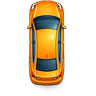
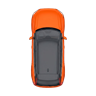
feat(vehicles): add mensajeria marker + non-rotating cargo box
- Add new mensajeria marker (kraft-box, top-down) for client and driver apps
  + web. Mensajería is no longer aliased to the moto marker since the box has
  its own visual identity and shouldn't pretend to be a vehicle.
- Update confort marker assets across all surfaces (client, driver, web,
  mockups) to higher-fidelity Gemini-generated SUV images that pair better
  with the brand-orange treatment.
- Skip iconRotate-by-bearing for mensajeria — the cargo box has no inherent
  "front" direction so heading-driven rotation looked arbitrary. Other
  vehicle markers continue to rotate by reported heading.

Implementation note: NON_ROTATING_MARKERS Set centralizes the slug list in
RideMapView (client + driver) and BookingMap (web), keeping the rule in one
place if more silhouette-less markers are added later.

diff --git a/apps/driver/src/components/RideMapView.tsx b/apps/driver/src/components/RideMapView.tsx
@@ -111,7 +111,12 @@ const vehicleMarkerImages: Record<string, any> = {
   // 1950s vintage car that visually identifies the standard auto service.
   auto: require('../../assets/vehicles/markers/auto_clasico.png'),
   confort: require('../../assets/vehicles/markers/confort.png'),
+  mensajeria: require('../../assets/vehicles/markers/mensajeria.png'),
 };
+
+// Cargo box marker has no inherent "front" direction — keep rotation 0
+// instead of spinning a square around its center as the bearing changes.
+const NON_ROTATING_MARKERS = new Set<string>(['mensajeria']);
 
 // Demo-aware map fallback: returns São Paulo when EXPO_PUBLIC_DEMO_MODE=true,
 // Havana otherwise. Same pattern as apps/client/src/components/RideMapView.tsx.
@@ -1026,7 +1031,7 @@ function RideMapViewInner(
                       // 0=N, 90=E, 180=S, 270=W. The marker images are drawn
                       // pointing up (north) so a direct deg rotation aligns
                       // the nose with the direction of travel.
-                      { rotate: `${typeof driverHeading === 'number' && Number.isFinite(driverHeading) ? driverHeading : 0}deg` },
+                      { rotate: `${(vehicleType && NON_ROTATING_MARKERS.has(vehicleType)) ? 0 : (typeof driverHeading === 'number' && Number.isFinite(driverHeading) ? driverHeading : 0)}deg` },
                     ],
                   }}
                 >
@@ -1121,6 +1126,7 @@ function RideMapViewInner(
                 'marker-moto': vehicleMarkerImages.moto,
                 'marker-auto': vehicleMarkerImages.auto,
                 'marker-confort': vehicleMarkerImages.confort,
+                'marker-mensajeria': vehicleMarkerImages.mensajeria,
               }}
             />
             <MapboxGL.ShapeSource id="peers" shape={peersGeoJSON}>
@@ -1129,7 +1135,8 @@ function RideMapViewInner(
                 style={{
                   iconImage: ['get', 'icon'],
                   iconSize: 0.45,
-                  iconRotate: ['get', 'heading'],
+                  // Cargo box marker (mensajería) stays at 0deg — no inherent front.
+                  iconRotate: ['case', ['==', ['get', 'icon'], 'marker-mensajeria'], 0, ['get', 'heading']],
                   iconAllowOverlap: true,
                   iconRotationAlignment: 'map',
                   iconPitchAlignment: 'map',

diff --git a/apps/web/src/app/book/BookingMap.tsx b/apps/web/src/app/book/BookingMap.tsx
@@ -100,7 +100,12 @@ const VEHICLE_IMAGES: Record<string, string> = {
   moto: '/images/vehicles/markers/moto@2x.png',
   auto: '/images/vehicles/markers/auto@2x.png',
   confort: '/images/vehicles/markers/confort@2x.png',
+  mensajeria: '/images/vehicles/markers/mensajeria@2x.png',
 };
+
+// Cargo box marker (mensajería) has no inherent "front" — keep it upright
+// instead of rotating with bearing.
+const NON_ROTATING_MARKERS = new Set<string>(['mensajeria']);
 
 function createVehicleMarkerEl(vehicleType: string, heading: number | null, etaSeconds?: number | null): HTMLDivElement {
   const el = document.createElement('div');
@@ -113,7 +118,7 @@ function createVehicleMarkerEl(vehicleType: string, heading: number | null, etaS
   });
 
   const imgSrc = VEHICLE_IMAGES[vehicleType] ?? VEHICLE_IMAGES.auto;
-  const rotation = heading ?? 0;
+  const rotation = NON_ROTATING_MARKERS.has(vehicleType) ? 0 : (heading ?? 0);
 
   // Vehicle icon
   const icon = document.createElement('div');
@@ -574,6 +579,7 @@ export default function BookingMap({
         ['vehicle-moto', '/images/vehicles/markers/moto@2x.png'],
         ['vehicle-auto', '/images/vehicles/markers/auto@2x.png'],
         ['vehicle-confort', '/images/vehicles/markers/confort@2x.png'],
+        ['vehicle-mensajeria', '/images/vehicles/markers/mensajeria@2x.png'],
       ];
       images.forEach(([name, url]) => {
         if (!map.hasImage(name)) {
@@ -594,7 +600,8 @@ export default function BookingMap({
         layout: {
           'icon-image': ['get', 'icon'],
           'icon-size': ['interpolate', ['linear'], ['zoom'], 10, 0.3, 14, 0.45, 18, 0.55],
-          'icon-rotate': ['get', 'heading'],
+          // Cargo box marker (mensajería) stays at 0deg — no inherent front.
+          'icon-rotate': ['case', ['==', ['get', 'icon'], 'vehicle-mensajeria'], 0, ['get', 'heading']],
           'icon-rotation-alignment': 'map',
           'icon-allow-overlap': true,
           'icon-ignore-placement': true,

diff --git a/apps/client/src/components/RideMapView.tsx b/apps/client/src/components/RideMapView.tsx
@@ -45,7 +45,13 @@ const vehicleMarkerImages: Record<string, any> = {
   'marker-moto': require('../../assets/vehicles/markers/moto.png'),
   'marker-auto': require('../../assets/vehicles/markers/auto_clasico.png'),
   'marker-confort': require('../../assets/vehicles/markers/confort.png'),
+  'marker-mensajeria': require('../../assets/vehicles/markers/mensajeria.png'),
 };
+
+// Service slugs whose marker has no inherent "front" direction — rotation
+// by bearing would feel arbitrary (e.g. mensajeria is rendered as a square
+// cargo box, not a vehicle silhouette).
+const NON_ROTATING_MARKERS = new Set<string>(['mensajeria']);
 
 interface GeoPoint {
   latitude: number;
@@ -800,7 +806,7 @@ function RideMapViewInner({
                   backgroundColor: 'transparent',
                   alignItems: 'center',
                   justifyContent: 'center',
-                  transform: [{ rotate: `${animatedDriver.heading ?? 0}deg` }],
+                  transform: [{ rotate: `${(vehicleType && NON_ROTATING_MARKERS.has(vehicleType)) ? 0 : (animatedDriver.heading ?? 0)}deg` }],
                 }}
               >
                 {vehicleType && vehicleMarkerImages[`marker-${vehicleType}`] ? (
@@ -839,7 +845,9 @@ function RideMapViewInner({
                   iconSize: 0.55,
                   iconAllowOverlap: true,
                   iconAnchor: 'center',
-                  iconRotate: ['get', 'heading'],
+                  // Cargo box marker (mensajería) has no front — keep rotation 0;
+                  // all vehicle markers rotate by their reported heading.
+                  iconRotate: ['case', ['==', ['get', 'icon'], 'marker-mensajeria'], 0, ['get', 'heading']],
                 }}
               />
             </MapboxGL.ShapeSource>

diff --git a/apps/client/src/utils/vehicleImages.ts b/apps/client/src/utils/vehicleImages.ts
@@ -27,5 +27,8 @@ export const vehicleMarkerImages: Record<ServiceTypeSlug, ImageSourcePropType> =
   moto_standard: require('../../assets/vehicles/markers/moto.png'),
   auto_standard: require('../../assets/vehicles/markers/auto_clasico.png'),
   auto_confort: require('../../assets/vehicles/markers/confort.png'),
-  mensajeria: require('../../assets/vehicles/markers/moto.png'),
+  // mensajeria now has its own marker (kraft box, top-down) — no longer
+  // falls back to moto.png. The box has no inherent "front" direction, so
+  // map views must skip iconRotate-by-bearing for this slug.
+  mensajeria: require('../../assets/vehicles/markers/mensajeria.png'),
 };
